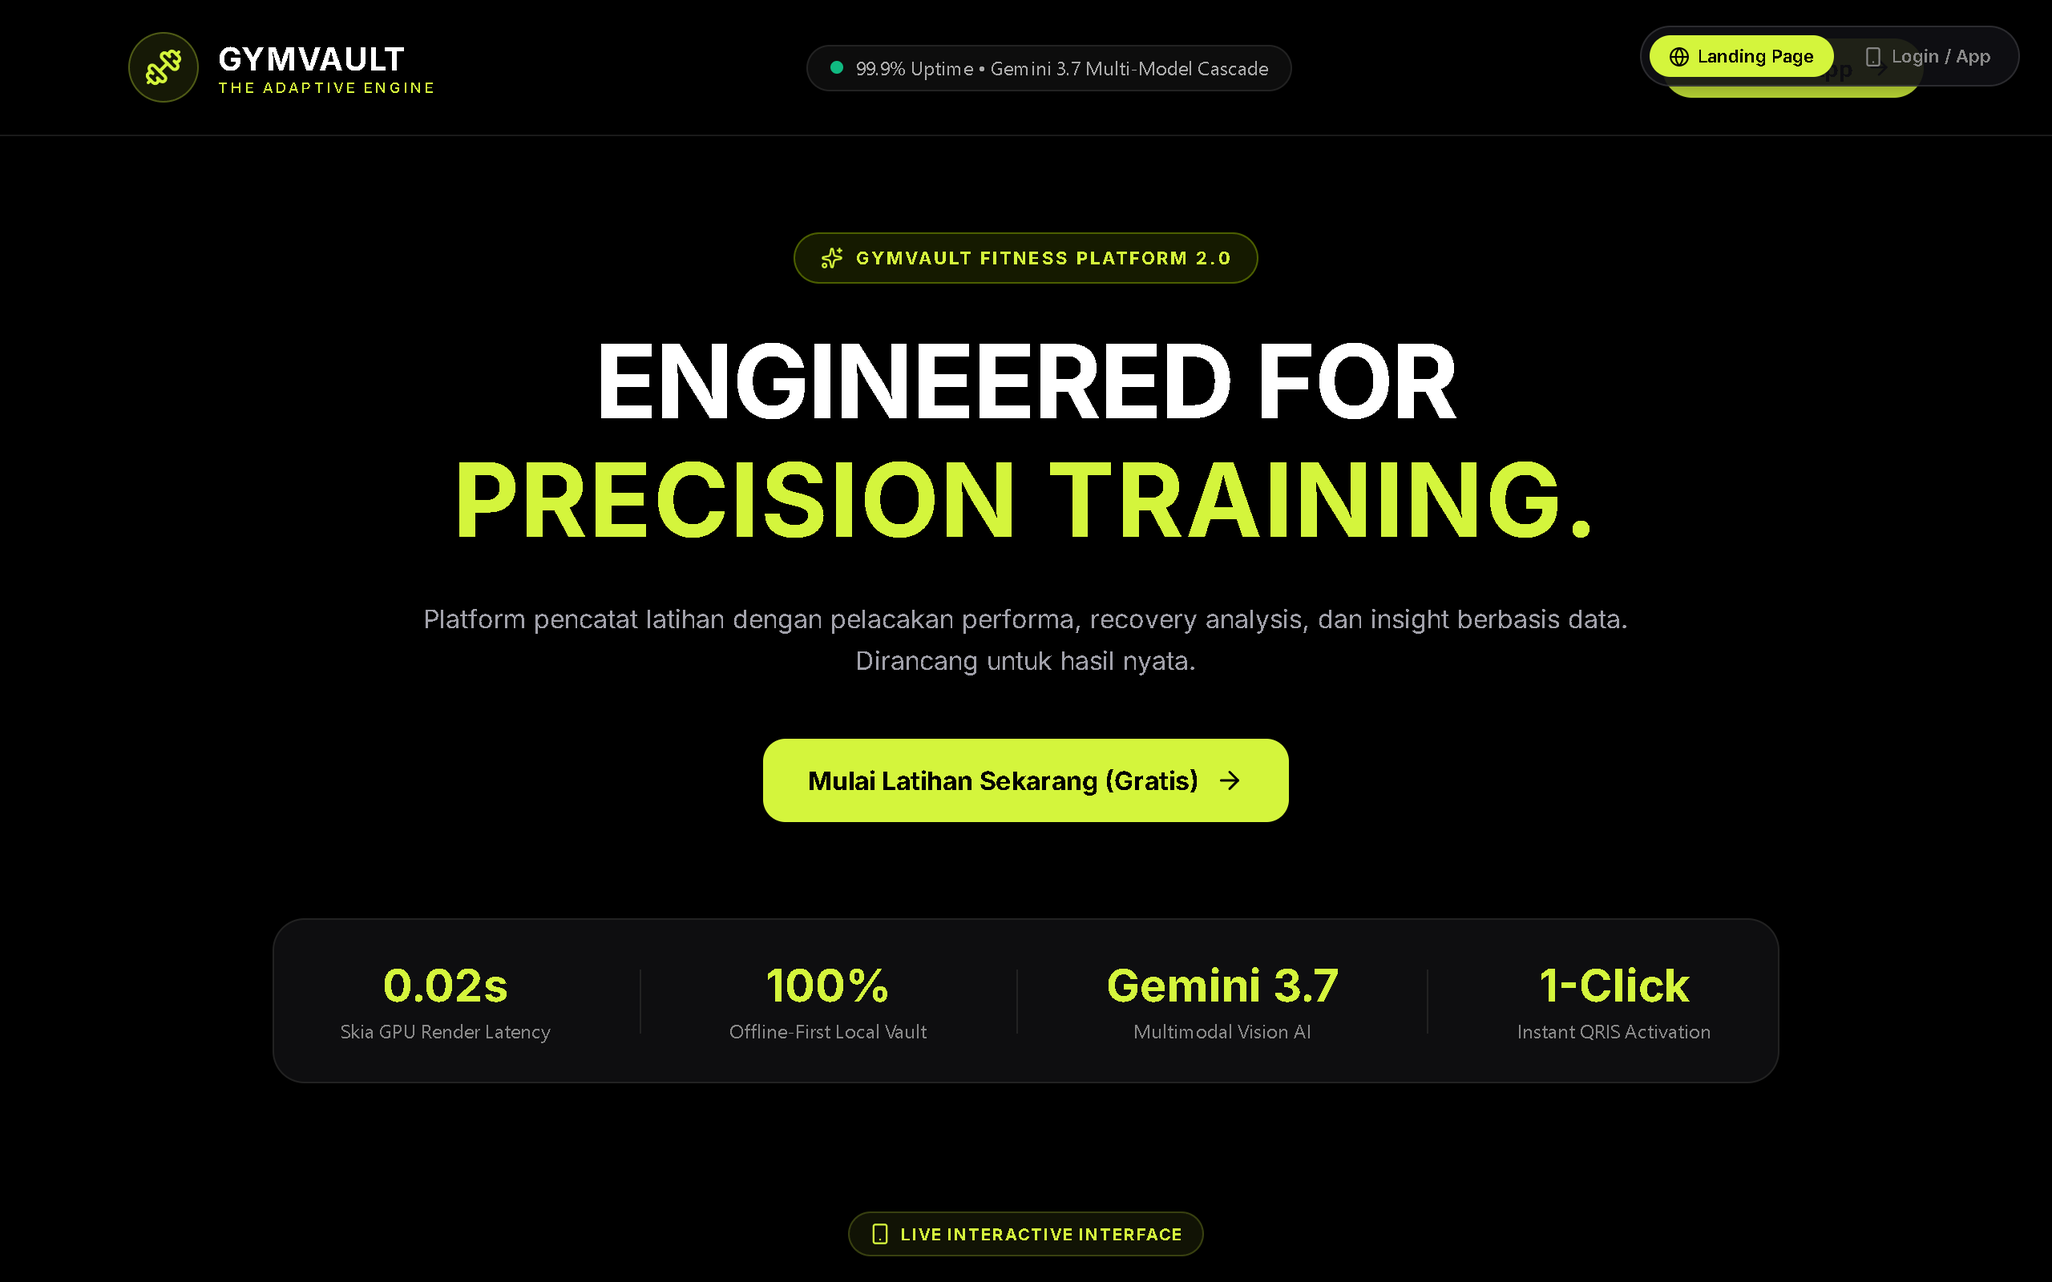
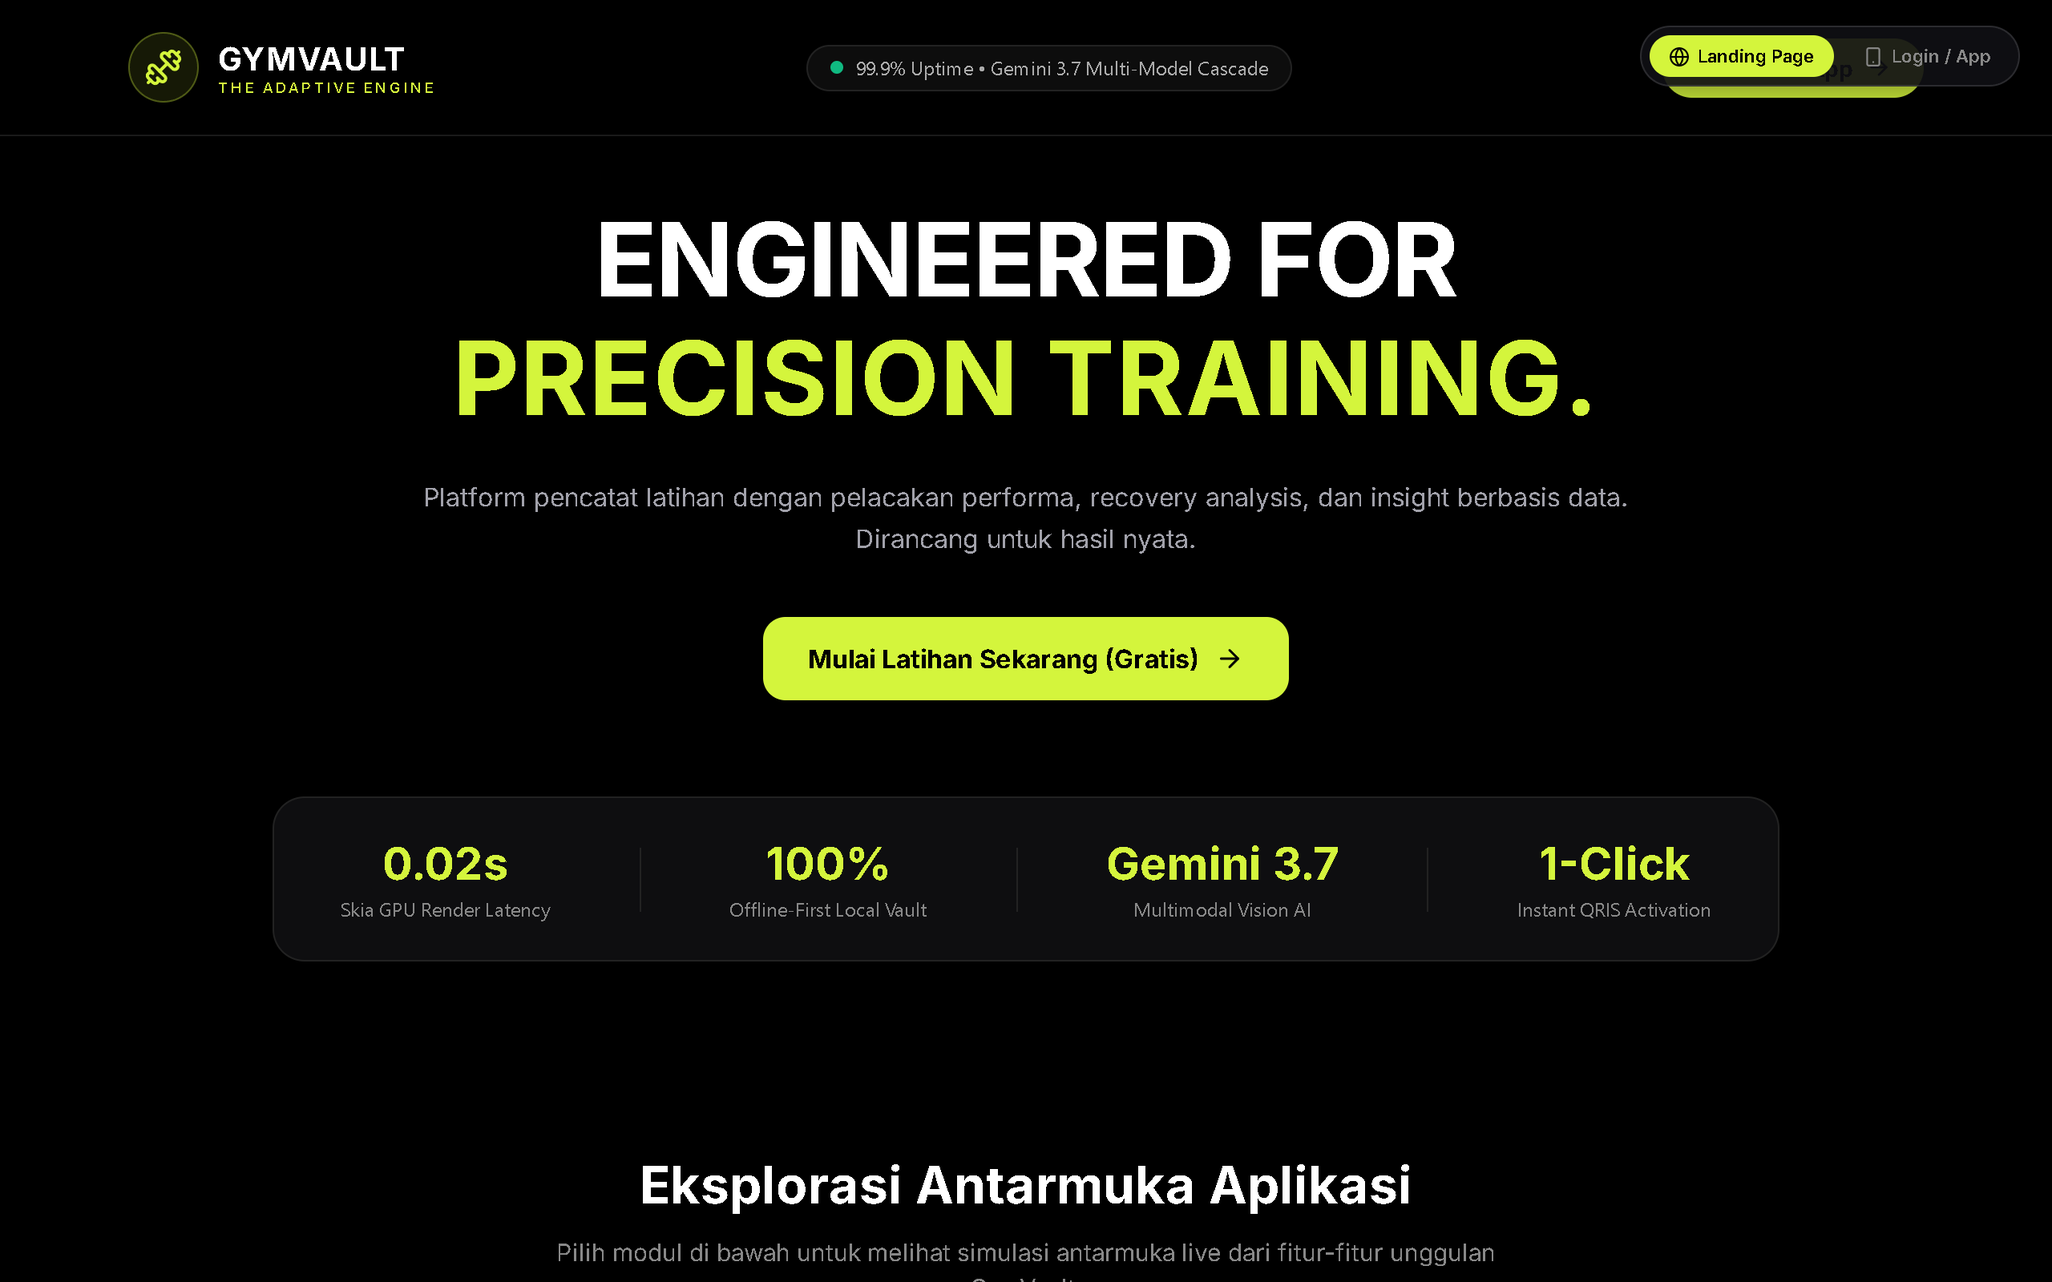
refactor(ui): eliminate AI slop eyebrow pills, clean raw emojis, and align week boundary

diff --git a/screens/LandingPage.js b/screens/LandingPage.js
@@ -9,18 +9,13 @@ import {
   Award,
   TrendingUp,
   Sparkles,
-  Smartphone,
   Check,
   Heart,
   Timer,
-  Layers,
   CheckCircle2,
-  Scale,
   Calculator,
   Droplets,
   Target,
-  Sliders,
-  Compass,
   PlayCircle,
   CheckCircle,
   Utensils,
@@ -115,10 +110,6 @@ export default function LandingPage({ onLoginPress }) {
       {/* ─── INTERACTIVE APP SCREEN SHOWCASE PREVIEW ─── */}
       <View style={[styles.sectionContainer, { paddingHorizontal: isLarge ? 80 : 20 }]}>
         <View style={styles.sectionHeader}>
-          <View style={styles.miniTag}>
-            <Smartphone color="#D4F53C" size={14} />
-            <Text style={styles.miniTagText}>LIVE INTERACTIVE INTERFACE</Text>
-          </View>
           <Text style={styles.sectionHeading}>Eksplorasi Antarmuka Aplikasi</Text>
           <Text style={styles.sectionSub}>
             Pilih modul di bawah untuk melihat simulasi antarmuka live dari fitur-fitur unggulan GymVault.
@@ -128,8 +119,8 @@ export default function LandingPage({ onLoginPress }) {
           <View style={{ flexDirection: 'row', gap: 10, marginTop: 24, flexWrap: 'wrap', justifyContent: 'center' }}>
             {[
               { id: 'logger', label: 'Live Logger', icon: PlayCircle },
-              { id: 'voice', label: '🎙 Voice Hands-Free Logger', icon: Mic },
-              { id: 'fridge', label: '🍳 Fridge-to-Macro Chef', icon: Utensils },
+              { id: 'voice', label: 'Voice Hands-Free Logger', icon: Mic },
+              { id: 'fridge', label: 'Fridge-to-Macro Chef', icon: Utensils },
               { id: 'heatmap', label: '12-Group CNS Heatmap', icon: Activity },
               { id: 'ai', label: 'Gemini 3.7 AI Coach', icon: Cpu }
             ].map(tab => {
@@ -193,8 +184,9 @@ export default function LandingPage({ onLoginPress }) {
                   <Text style={{ color: '#38BDF8', fontSize: 12, fontWeight: 'bold', letterSpacing: 1 }}>VOICE HANDS-FREE WORKOUT LOGGER</Text>
                   <Text style={{ color: '#FFF', fontSize: 20, fontWeight: 'bold', marginTop: 2 }}>Catat Beban Sambil Mengangkat Barbell</Text>
                 </View>
-                <View style={{ backgroundColor: 'rgba(56,189,248,0.12)', paddingHorizontal: 12, paddingVertical: 6, borderRadius: 8, borderWidth: 1, borderColor: 'rgba(56,189,248,0.3)' }}>
-                  <Text style={{ color: '#38BDF8', fontWeight: 'bold', fontSize: 12 }}>🎙 LIVE MIC ACTIVE</Text>
+                <View style={{ flexDirection: 'row', alignItems: 'center', gap: 6, backgroundColor: 'rgba(56,189,248,0.12)', paddingHorizontal: 12, paddingVertical: 6, borderRadius: 8, borderWidth: 1, borderColor: 'rgba(56,189,248,0.3)' }}>
+                  <Mic color="#38BDF8" size={13} />
+                  <Text style={{ color: '#38BDF8', fontWeight: 'bold', fontSize: 12 }}>LIVE MIC ACTIVE</Text>
                 </View>
               </View>
 
@@ -256,8 +248,9 @@ export default function LandingPage({ onLoginPress }) {
                   <Text style={{ color: '#F59E0B', fontSize: 12, fontWeight: 'bold', letterSpacing: 1 }}>FRIDGE-TO-MACRO SMART CHEF</Text>
                   <Text style={{ color: '#FFF', fontSize: 20, fontWeight: 'bold', marginTop: 2 }}>Racik Menu Presisi dari Bahan Kulkas</Text>
                 </View>
-                <View style={{ backgroundColor: 'rgba(245,158,11,0.12)', paddingHorizontal: 12, paddingVertical: 6, borderRadius: 8, borderWidth: 1, borderColor: 'rgba(245,158,11,0.3)' }}>
-                  <Text style={{ color: '#F59E0B', fontWeight: 'bold', fontSize: 12 }}>🍳 AI CHEF ACTIVE</Text>
+                <View style={{ flexDirection: 'row', alignItems: 'center', gap: 6, backgroundColor: 'rgba(245,158,11,0.12)', paddingHorizontal: 12, paddingVertical: 6, borderRadius: 8, borderWidth: 1, borderColor: 'rgba(245,158,11,0.3)' }}>
+                  <Utensils color="#F59E0B" size={13} />
+                  <Text style={{ color: '#F59E0B', fontWeight: 'bold', fontSize: 12 }}>AI CHEF ACTIVE</Text>
                 </View>
               </View>
 
@@ -295,7 +288,7 @@ export default function LandingPage({ onLoginPress }) {
               {/* Output Live Recipe Simulation */}
               <View style={{ backgroundColor: '#1A1305', padding: 16, borderRadius: 14, borderWidth: 1, borderColor: '#F59E0B', marginTop: 6 }}>
                 <View style={{ flexDirection: 'row', justifyContent: 'space-between', alignItems: 'center', marginBottom: 8 }}>
-                  <Text style={{ color: '#F59E0B', fontSize: 14, fontWeight: 'bold' }}>🍳 Tumis Tempe Telur Gurih & Nasi Hangat</Text>
+                  <Text style={{ color: '#F59E0B', fontSize: 14, fontWeight: 'bold' }}>Tumis Tempe Telur Gurih & Nasi Hangat</Text>
                   <Text style={{ color: '#FFF', fontSize: 16, fontWeight: 'bold' }}>{fridgeTargetCal} kcal</Text>
                 </View>
                 <View style={{ flexDirection: 'row', gap: 12, marginVertical: 8 }}>
@@ -304,7 +297,7 @@ export default function LandingPage({ onLoginPress }) {
                   <Text style={{ color: '#F59E0B', fontSize: 12, fontWeight: 'bold' }}>F: 16g Lemak</Text>
                 </View>
                 <Text style={{ color: '#94A3B8', fontSize: 12, lineHeight: 17 }}>
-                  👨🍳 <Text style={{ color: '#FFF', fontWeight: 'bold' }}>Takaran Presisi:</Text> 3 butir telur (150g), 100g tempe dipotong dadu, 1 centong nasi putih (100g). Pas memenuhi 650 kcal target makan siang!
+                  <Text style={{ color: '#FFF', fontWeight: 'bold' }}>Takaran Presisi: </Text>3 butir telur (150g), 100g tempe dipotong dadu, 1 centong nasi putih (100g). Pas memenuhi 650 kcal target makan siang!
                 </Text>
               </View>
             </View>
@@ -363,10 +356,6 @@ export default function LandingPage({ onLoginPress }) {
       {/* ─── INTERACTIVE SECTION 1: LIVE 1-REP MAX (1RM) CALCULATOR ─── */}
       <View style={[styles.sectionContainer, { paddingHorizontal: isLarge ? 80 : 20 }]}>
         <View style={styles.sectionHeader}>
-          <View style={styles.miniTag}>
-            <Calculator color="#D4F53C" size={14} />
-            <Text style={styles.miniTagText}>SCIENTIFIC 1RM ENGINE</Text>
-          </View>
           <Text style={styles.sectionHeading}>Kalkulator 1-Rep Max & Strength Tier</Text>
           <Text style={styles.sectionSub}>
             Masukkan beban dan repetisi angkatan terberat Anda untuk menghitung batas maksimal 1RM dan estimasi beban kerja persentase.
@@ -438,10 +427,6 @@ export default function LandingPage({ onLoginPress }) {
       {/* ─── INTERACTIVE SECTION 2: OLYMPIC BARBELL PLATE LOADER ─── */}
       <View style={[styles.sectionContainer, { paddingHorizontal: isLarge ? 80 : 20 }]}>
         <View style={styles.sectionHeader}>
-          <View style={styles.miniTag}>
-            <Sliders color="#D4F53C" size={14} />
-            <Text style={styles.miniTagText}>PLATE LOADING SIMULATOR</Text>
-          </View>
           <Text style={styles.sectionHeading}>Kalkulator Plate Barbell Olympic</Text>
           <Text style={styles.sectionSub}>
             Pilih target beban total pada Barbell Olympic 20kg untuk melihat susunan piringan beban per sisi secara visual.
@@ -493,10 +478,6 @@ export default function LandingPage({ onLoginPress }) {
       {/* ─── INTERACTIVE SECTION 3: TDEE & MACRO ARCHITECT ─── */}
       <View style={[styles.sectionContainer, { paddingHorizontal: isLarge ? 80 : 20 }]}>
         <View style={styles.sectionHeader}>
-          <View style={styles.miniTag}>
-            <Scale color="#D4F53C" size={14} />
-            <Text style={styles.miniTagText}>PRECISION METABOLIC ENGINE</Text>
-          </View>
           <Text style={styles.sectionHeading}>Kalkulator TDEE & Target Makronutrisi</Text>
           <Text style={styles.sectionSub}>
             Hitung kebutuhan kalori harian, target gramatur protein, dan asupan hidrasi air berdasarkan data tubuh Anda.
@@ -567,10 +548,6 @@ export default function LandingPage({ onLoginPress }) {
       {/* ─── INTERACTIVE SECTION 4: WORKOUT SPLIT ARCHITECT ─── */}
       <View style={[styles.sectionContainer, { paddingHorizontal: isLarge ? 80 : 20 }]}>
         <View style={styles.sectionHeader}>
-          <View style={styles.miniTag}>
-            <Compass color="#D4F53C" size={14} />
-            <Text style={styles.miniTagText}>WEEKLY SPLIT ARCHITECT</Text>
-          </View>
           <Text style={styles.sectionHeading}>Generator Program Latihan Mingguan</Text>
           <Text style={styles.sectionSub}>
             Pilih frekuensi hari latihan Anda dalam seminggu untuk melihat pembagian split otot dan alokasi volume yang optimal.
@@ -620,10 +597,6 @@ export default function LandingPage({ onLoginPress }) {
       {/* ─── INTERACTIVE SECTION 5: CARDIO HEART RATE ZONES ─── */}
       <View style={[styles.sectionContainer, { paddingHorizontal: isLarge ? 80 : 20 }]}>
         <View style={styles.sectionHeader}>
-          <View style={styles.miniTag}>
-            <Heart color="#D4F53C" size={14} />
-            <Text style={styles.miniTagText}>CARDIOVASCULAR TELEMETRY</Text>
-          </View>
           <Text style={styles.sectionHeading}>Zona Detak Jantung Latihan (HR Zones)</Text>
           <Text style={styles.sectionSub}>
             Ketahui batas BPM detak jantung untuk pembakaran lemak maksimal (Zone 2) dan peningkatan kapasitas VO2 Max (Zone 5).
@@ -665,10 +638,6 @@ export default function LandingPage({ onLoginPress }) {
       {/* ─── INTERACTIVE SIMULATOR: LIVE MUSCLE RECOVERY ─── */}
       <View style={[styles.sectionContainer, { paddingHorizontal: isLarge ? 80 : 20 }]}>
         <View style={styles.sectionHeader}>
-          <View style={styles.miniTag}>
-            <Activity color="#D4F53C" size={14} />
-            <Text style={styles.miniTagText}>INTERACTIVE TELEMETRY</Text>
-          </View>
           <Text style={styles.sectionHeading}>Simulasi Peta Kelelahan Otot & CNS</Text>
           <Text style={styles.sectionSub}>
             Pilih kelompok otot di bawah ini untuk melihat bagaimana algoritma GymVault menghitung kelelahan dan waktu pemulihan optimal Anda secara real-time.
@@ -751,10 +720,6 @@ export default function LandingPage({ onLoginPress }) {
       {/* ─── INTERACTIVE SECTION: ADAPTIVE ENGINE (GYM VS HOME) ─── */}
       <View style={[styles.sectionContainer, { paddingHorizontal: isLarge ? 80 : 20 }]}>
         <View style={styles.sectionHeader}>
-          <View style={styles.miniTag}>
-            <Layers color="#D4F53C" size={14} />
-            <Text style={styles.miniTagText}>THE ADAPTIVE ENGINE</Text>
-          </View>
           <Text style={styles.sectionHeading}>Satu Aplikasi, Dua Mode Adaptif</Text>
           <Text style={styles.sectionSub}>
             GymVault secara otomatis menyesuaikan tampilan, database latihan, dan algoritma timer berdasarkan lokasi latihan Anda.
@@ -833,10 +798,6 @@ export default function LandingPage({ onLoginPress }) {
       {/* ─── INTERACTIVE SECTION: GEMINI AI MULTIMODAL VISION ─── */}
       <View style={[styles.sectionContainer, { paddingHorizontal: isLarge ? 80 : 20 }]}>
         <View style={styles.sectionHeader}>
-          <View style={styles.miniTag}>
-            <Cpu color="#D4F53C" size={14} />
-            <Text style={styles.miniTagText}>GOOGLE GEMINI 3.7 MULTIMODAL</Text>
-          </View>
           <Text style={styles.sectionHeading}>Instant AI Nutrition & Meal Scanner</Text>
           <Text style={styles.sectionSub}>
             Pilih simulasi makanan di bawah untuk menguji kecepatan Gemini AI dalam membedah makronutrisi dan kalori secara akurat.
@@ -894,10 +855,6 @@ export default function LandingPage({ onLoginPress }) {
       {/* ─── INTERACTIVE SECTION: VOLUME CALCULATOR ─── */}
       <View style={[styles.sectionContainer, { paddingHorizontal: isLarge ? 80 : 20 }]}>
         <View style={styles.sectionHeader}>
-          <View style={styles.miniTag}>
-            <TrendingUp color="#D4F53C" size={14} />
-            <Text style={styles.miniTagText}>GAMIFICATION & VIRAL SHARING</Text>
-          </View>
           <Text style={styles.sectionHeading}>Strava-Style Volume Comparison</Text>
           <Text style={styles.sectionSub}>
             Berapa total volume angkatan Anda bulan ini? GymVault secara otomatis mengubah angka kg kering menjadi objek nyata yang bisa langsung dibagikan ke Instagram Story.

diff --git a/components/landing/LandingPricingFaq.js b/components/landing/LandingPricingFaq.js
@@ -1,6 +1,6 @@
 import { useState } from "react";
 import { View, Text, TouchableOpacity } from 'react-native';
-import { Crown, Check, ChevronDown, ChevronUp } from 'lucide-react-native';
+import { Check, ChevronDown, ChevronUp } from 'lucide-react-native';
 import { FAQS } from './landingData';
 
 export default function LandingPricingFaq({ onLoginPress, styles, isLarge }) {
@@ -11,10 +11,6 @@ export default function LandingPricingFaq({ onLoginPress, styles, isLarge }) {
       {/* ─── PRICING MATRIX ─── */}
       <View style={[styles.sectionContainer, { paddingHorizontal: isLarge ? 80 : 20 }]}>
         <View style={styles.sectionHeader}>
-          <View style={styles.miniTag}>
-            <Crown color="#D4F53C" size={14} />
-            <Text style={styles.miniTagText}>TRANSPARENT PRICING</Text>
-          </View>
           <Text style={styles.sectionHeading}>Investasi Terbaik untuk Fisik Anda</Text>
           <Text style={styles.sectionSub}>Pilih paket gratis atau nikmati AI tanpa batas via QRIS DANA 1-Click Instant Activation.</Text>
         </View>
@@ -35,8 +31,14 @@ export default function LandingPricingFaq({ onLoginPress, styles, isLarge }) {
               ))}
             </View>
 
-            <TouchableOpacity style={styles.planBtnSecondary} onPress={onLoginPress}>
-              <Text style={{ color: '#FFF', fontWeight: 'bold' }}>Mulai Gratis</Text>
+            <TouchableOpacity 
+              accessibilityRole="button"
+              accessibilityLabel="Mulai Versi Gratis Starter"
+              style={styles.planBtnSecondary} 
+              onPress={onLoginPress}
+              activeOpacity={0.8}
+            >
+              <Text style={{ color: '#FFF', fontWeight: 'bold', fontSize: 15 }}>Mulai Gratis</Text>
             </TouchableOpacity>
           </View>
 
@@ -64,7 +66,13 @@ export default function LandingPricingFaq({ onLoginPress, styles, isLarge }) {
               ))}
             </View>
 
-            <TouchableOpacity style={styles.planBtnPrimary} onPress={onLoginPress}>
+            <TouchableOpacity 
+              accessibilityRole="button"
+              accessibilityLabel="Upgrade ke Paket Pro"
+              style={styles.planBtnPrimary} 
+              onPress={onLoginPress}
+              activeOpacity={0.8}
+            >
               <Text style={{ color: '#000', fontWeight: 'bold', fontSize: 15 }}>Upgrade ke Pro</Text>
             </TouchableOpacity>
           </View>

diff --git a/components/landing/landingStyles.js b/components/landing/landingStyles.js
@@ -81,26 +81,8 @@ export const styles = StyleSheet.create({
   },
   heroSection: {
     alignItems: 'center',
-    marginTop: 60,
+    paddingVertical: 40,
     marginBottom: 80,
-  },
-  badge: {
-    flexDirection: 'row',
-    alignItems: 'center',
-    gap: 8,
-    paddingHorizontal: 16,
-    paddingVertical: 8,
-    backgroundColor: 'rgba(204, 255, 0, 0.1)',
-    borderRadius: 100,
-    borderWidth: 1,
-    borderColor: 'rgba(204, 255, 0, 0.3)',
-    marginBottom: 24,
-  },
-  badgeText: {
-    color: '#D4F53C',
-    fontFamily: 'Inter_700Bold',
-    fontSize: 11,
-    letterSpacing: 1.5,
   },
   heroTitle: {
     fontFamily: 'Inter_700Bold',
@@ -174,24 +156,6 @@ export const styles = StyleSheet.create({
   sectionHeader: {
     alignItems: 'center',
     marginBottom: 40,
-  },
-  miniTag: {
-    flexDirection: 'row',
-    alignItems: 'center',
-    gap: 6,
-    backgroundColor: 'rgba(212,245,60,0.08)',
-    paddingHorizontal: 12,
-    paddingVertical: 6,
-    borderRadius: 20,
-    borderWidth: 1,
-    borderColor: 'rgba(212,245,60,0.2)',
-    marginBottom: 12,
-  },
-  miniTagText: {
-    color: '#D4F53C',
-    fontSize: 10,
-    fontFamily: 'Inter_700Bold',
-    letterSpacing: 1,
   },
   sectionHeading: {
     fontFamily: 'Inter_700Bold',

diff --git a/screens/DashboardScreen.js b/screens/DashboardScreen.js
@@ -22,7 +22,7 @@ import OfflineSyncBanner from '../components/OfflineSyncBanner';
 import CustomRoutinesWidget from '../components/CustomRoutinesWidget';
 import CommunitySocialFeedWidget from '../components/CommunitySocialFeedWidget';
 import LeaderboardPreviewWidget from '../components/LeaderboardPreviewWidget';
-import { formatShortDate } from "../utils/dateHelpers";
+import { formatShortDate, getStartOfWeek } from "../utils/dateHelpers";
 import { MotiView } from 'moti';
 
 
@@ -92,10 +92,7 @@ export default function DashboardScreen({ onStartWorkout, onStartRoutine, sessio
         setCompletedSessions([]);
       } else if (sessions && sessions.length > 0) {
         setCompletedSessions(sessions);
-        const now = new Date();
-        const startOfWeek = new Date(now);
-        startOfWeek.setDate(now.getDate() - now.getDay());
-        startOfWeek.setHours(0, 0, 0, 0);
+        const startOfWeek = getStartOfWeek();
 
         let thisWeek = 0;
         let totalVolume = 0;

diff --git a/components/landing/LandingHero.js b/components/landing/LandingHero.js
@@ -1,14 +1,9 @@
 import { View, Text, TouchableOpacity } from 'react-native';
-import { Sparkles, ArrowRight } from 'lucide-react-native';
+import { ArrowRight } from 'lucide-react-native';
 
 export default function LandingHero({ onLoginPress, styles, isLarge, isMedium }) {
   return (
     <View style={[styles.heroSection, { paddingHorizontal: isLarge ? 80 : 20 }]}>
-      <View style={styles.badge}>
-        <Sparkles color="#D4F53C" size={14} />
-        <Text style={styles.badgeText}>GYMVAULT FITNESS PLATFORM 2.0</Text>
-      </View>
-
       <Text style={[styles.heroTitle, { fontSize: isLarge ? 64 : isMedium ? 44 : 32, lineHeight: isLarge ? 74 : isMedium ? 52 : 40 }]}>
         ENGINEERED FOR{'\n'}
         <Text style={{ color: '#D4F53C', fontWeight: '600', letterSpacing: 1 }}>PRECISION TRAINING.</Text>
